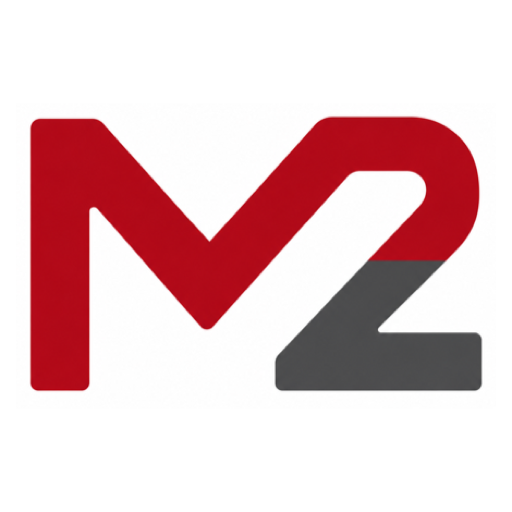
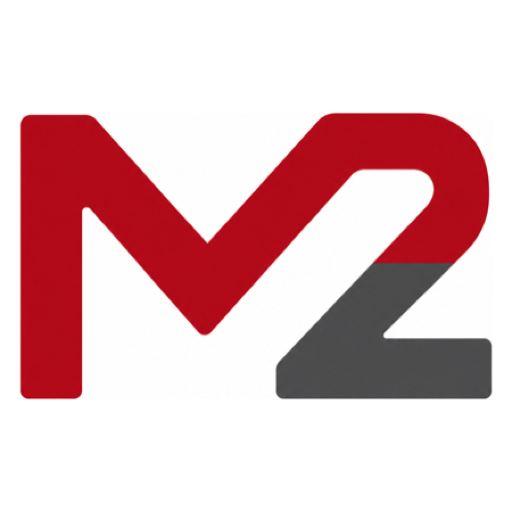
Strengthen the site-name signals for Google
og:site_name said "Zhichen Liu | M2 Lab" while the WebSite node said
"Mobility and Machine Intelligence Lab". Google falls back to the parent domain
(showing "GitHub" for a *.github.io subdomain) when it is not confident about a
site name, and conflicting signals are one cause. Both now say the same thing,
and the WebSite node gains an alternateName of "M2 Lab".

Also rebuilds the favicon set from a tighter crop of the M2 mark so the glyph
fills more of the square at 16px.

diff --git a/_includes/seo.html b/_includes/seo.html
@@ -20,7 +20,7 @@
 
 <meta property="og:type" content="{% if page.url == '/' %}website{% else %}article{% endif %}">
 <meta property="og:locale" content="en_US">
-<meta property="og:site_name" content="{{ site.title }} | {{ site.lab_short }}">
+<meta property="og:site_name" content="{{ site.lab_name }}">
 <meta property="og:title" content="{{ seo_title | escape_once }}">
 <meta property="og:description" content="{{ seo_description }}">
 <meta property="og:url" content="{{ canonical_url }}">
@@ -92,6 +92,7 @@
       "@id": "{{ seo_url }}/#website",
       "url": "{{ seo_url }}/",
       "name": "{{ site.lab_name }}",
+      "alternateName": "{{ site.lab_short }}",
       "publisher": { "@id": "{{ seo_url }}/#person" }
     }
   ]
